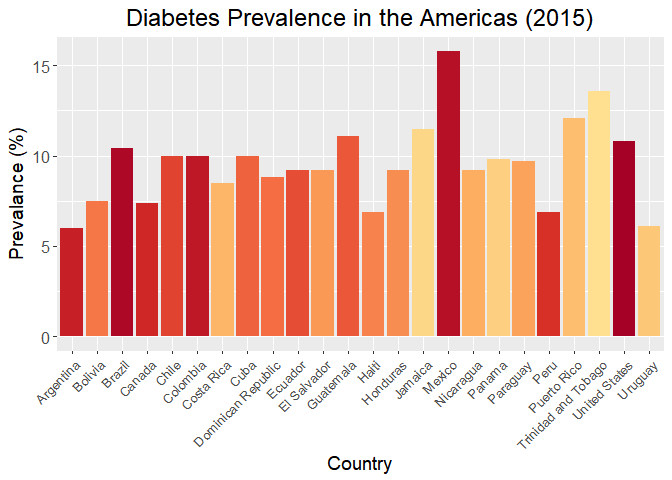
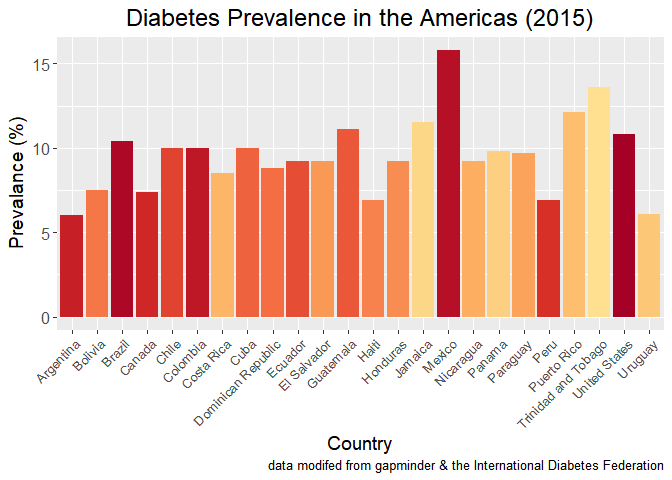
UPDATING FIGURES

diff --git a/Hw05/HW05_factor_figure_management.md b/Hw05/HW05_factor_figure_management.md
@@ -299,14 +299,17 @@ myplot <- function(my_data_table) {
   ggplot(aes(x = country, y = Diabetes_prevalance_2015)) +
   geom_col(aes(fill = country)) +
   ggtitle("Diabetes Prevalence in the Americas (2015)") +
-  labs(y = "Prevalance (%)", x = "Country") +
+  labs(y = "Prevalance (%)", 
+       x = "Country",
+        caption = "data modifed from gapminder & the International Diabetes Federation") +
   theme(axis.text.x=element_text(angle=45,hjust=1)) +
   theme(axis.title = element_text(size=14),
         plot.title = element_text(hjust = 0.5, size=18),
         axis.text.x = element_text(size=10),
         axis.text.y = element_text(size=12)) +
   scale_fill_manual(values = gapminder::country_colors) +
-  theme(legend.position="none")  ### remove the legend
+  theme(legend.position="none") ### remove the legend 
+    
 }  
 
 gapminder_diabetes_sort %>% 
@@ -377,12 +380,6 @@ ggsave("diabetes_plot2.svg", plot = diabetes_plot)
 
     ## Saving 7 x 5 in image
 
-``` r
-ggsave("diabetes_plot3.svg", plot = diabetes_plot, height = 5) 
-```
-
-    ## Saving 7 x 5 in image
-
 It appears ggsave automatically saves the most recently made plot. We need to specify the plot name explicitly to make sure it saves the correct plot.
 
 Now lets load the files to see if the save worked properly:
@@ -391,7 +388,15 @@ Now lets load the files to see if the save worked properly:
 
 **diabetes\_plot2** ![Alt text](diabetes_plot2.svg)
 
-**diabetes\_plot3** ![Alt text](diabetes_plot3.svg)
+We can also try saving it as a .jpg:
+
+``` r
+ggsave("diabetes_plot3.jpg", plot = diabetes_plot, dpi = 300) 
+```
+
+    ## Saving 7 x 5 in image
+
+**diabetes\_plot3** ![Alt text](diabetes_plot3.jpg)
 
 This confirms what I mentioned above about the imporatance of specifying the plot you would like to save, especially if it is not the most recent plot.
 
@@ -403,3 +408,5 @@ I found [this page](http://stat545.com/block029_factors.html) from class quite h
 I had never written a function in R before, but after a bit of time on google I manged to figure it out. At first I tried to save the graph as an object, but that didn't work (don't think it's possible to do this). Then I thought a function might work. It was super helpful because I didn't want to copy and paste a massive block of code over and over. I found [this page](https://www.statmethods.net/management/userfunctions.html) helpful for how to write a function.
 
 I was also very confused when playing around with arrange(). I thought I was doing something wrong, but it turned out it was working properly from the beginning. It's just that arrange() does not directly effect the display order for items in a plot. I was able to understand this by examining the effect of arrange() on a datatable and also when piping into head().
+
+Also kids, don't finsih your stats homowork mere minutes before it's due. I almost crashed R and deleted the my Rproject, freaked out, but just mangaged to fix it in time... :thumbsup:
